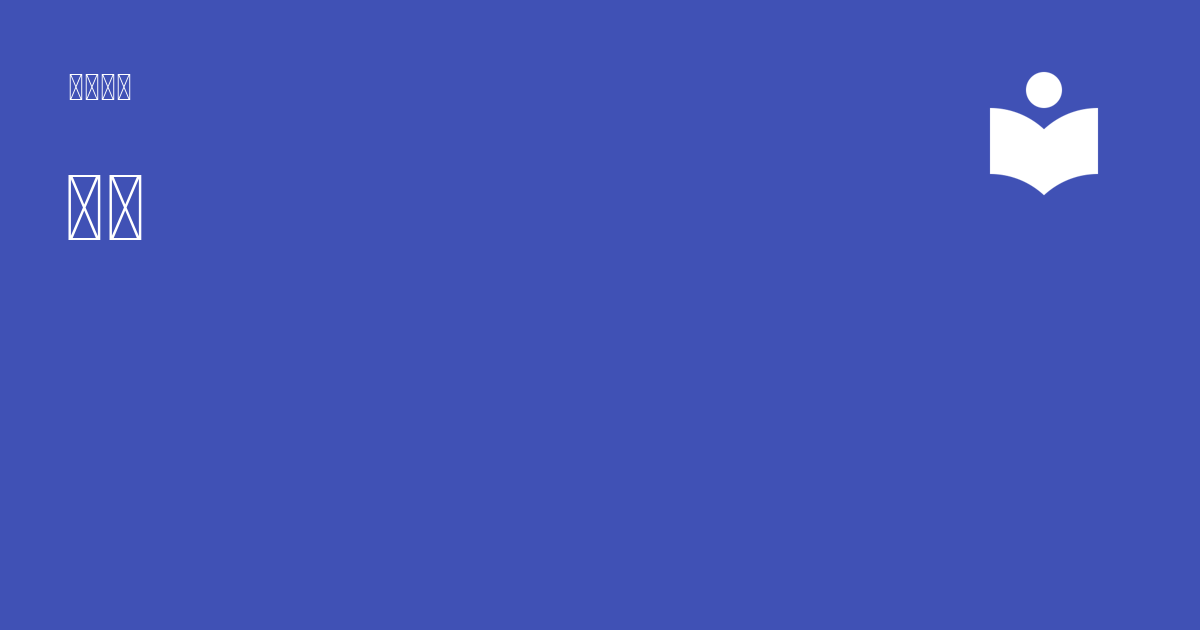
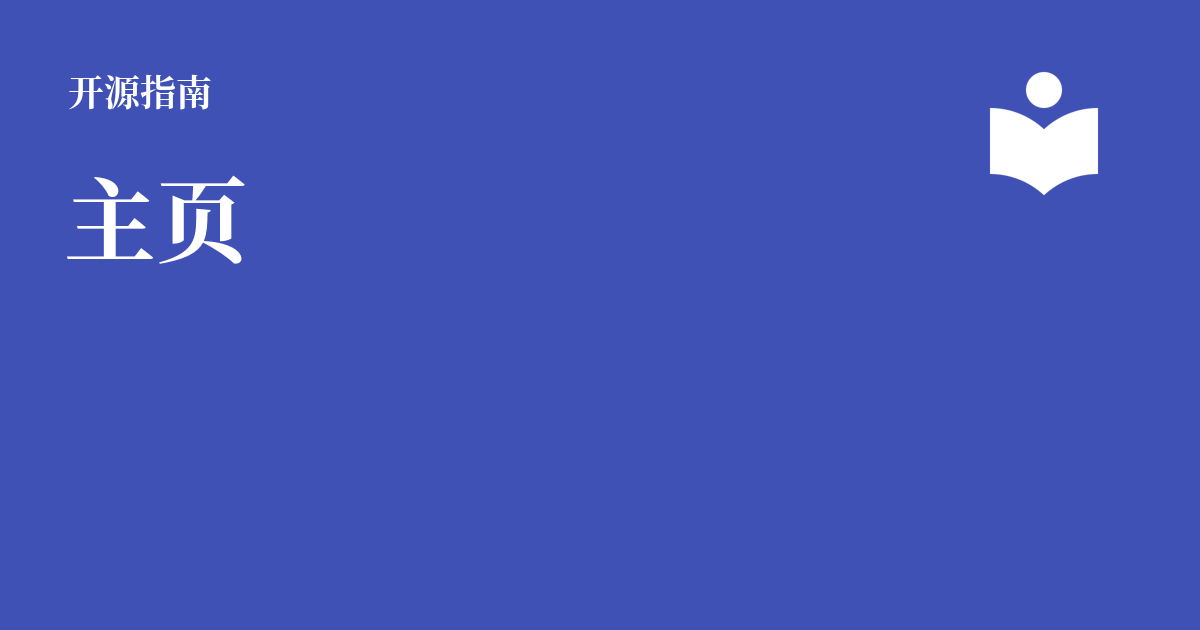
deploy: e4f5789639b287c09941f9b0cb4449ddef17459c

Changed region(s): [[0.0308, 0.2714, 0.2158, 0.4222], [0.0617, 0.1206, 0.185, 0.181]]

diff --git a/404.html b/404.html
@@ -35,8 +35,8 @@
         
         
         <link rel="preconnect" href="https://fonts.gstatic.com" crossorigin>
-        <link rel="stylesheet" href="https://fonts.googleapis.com/css?family=Roboto:300,300i,400,400i,700,700i%7CSource+Code+Variable:400,400i,700,700i&display=fallback">
-        <style>:root{--md-text-font:"Roboto";--md-code-font:"Source Code Variable"}</style>
+        <link rel="stylesheet" href="https://fonts.googleapis.com/css?family=Noto+Serif+SC:300,300i,400,400i,700,700i%7CSource+Code+Variable:400,400i,700,700i&display=fallback">
+        <style>:root{--md-text-font:"Noto Serif SC";--md-code-font:"Source Code Variable"}</style>
       
     
     

diff --git a/apache-maturity-model/index.html b/apache-maturity-model/index.html
@@ -39,8 +39,8 @@
         
         
         <link rel="preconnect" href="https://fonts.gstatic.com" crossorigin>
-        <link rel="stylesheet" href="https://fonts.googleapis.com/css?family=Roboto:300,300i,400,400i,700,700i%7CSource+Code+Variable:400,400i,700,700i&display=fallback">
-        <style>:root{--md-text-font:"Roboto";--md-code-font:"Source Code Variable"}</style>
+        <link rel="stylesheet" href="https://fonts.googleapis.com/css?family=Noto+Serif+SC:300,300i,400,400i,700,700i%7CSource+Code+Variable:400,400i,700,700i&display=fallback">
+        <style>:root{--md-text-font:"Noto Serif SC";--md-code-font:"Source Code Variable"}</style>
       
     
     

diff --git a/clickhouse-community-metrics/index.html b/clickhouse-community-metrics/index.html
@@ -37,8 +37,8 @@
         
         
         <link rel="preconnect" href="https://fonts.gstatic.com" crossorigin>
-        <link rel="stylesheet" href="https://fonts.googleapis.com/css?family=Roboto:300,300i,400,400i,700,700i%7CSource+Code+Variable:400,400i,700,700i&display=fallback">
-        <style>:root{--md-text-font:"Roboto";--md-code-font:"Source Code Variable"}</style>
+        <link rel="stylesheet" href="https://fonts.googleapis.com/css?family=Noto+Serif+SC:300,300i,400,400i,700,700i%7CSource+Code+Variable:400,400i,700,700i&display=fallback">
+        <style>:root{--md-text-font:"Noto Serif SC";--md-code-font:"Source Code Variable"}</style>
       
     
     

diff --git a/how-to-participate/index.html b/how-to-participate/index.html
@@ -37,8 +37,8 @@
         
         
         <link rel="preconnect" href="https://fonts.gstatic.com" crossorigin>
-        <link rel="stylesheet" href="https://fonts.googleapis.com/css?family=Roboto:300,300i,400,400i,700,700i%7CSource+Code+Variable:400,400i,700,700i&display=fallback">
-        <style>:root{--md-text-font:"Roboto";--md-code-font:"Source Code Variable"}</style>
+        <link rel="stylesheet" href="https://fonts.googleapis.com/css?family=Noto+Serif+SC:300,300i,400,400i,700,700i%7CSource+Code+Variable:400,400i,700,700i&display=fallback">
+        <style>:root{--md-text-font:"Noto Serif SC";--md-code-font:"Source Code Variable"}</style>
       
     
     

diff --git a/index.html b/index.html
@@ -37,8 +37,8 @@
         
         
         <link rel="preconnect" href="https://fonts.gstatic.com" crossorigin>
-        <link rel="stylesheet" href="https://fonts.googleapis.com/css?family=Roboto:300,300i,400,400i,700,700i%7CSource+Code+Variable:400,400i,700,700i&display=fallback">
-        <style>:root{--md-text-font:"Roboto";--md-code-font:"Source Code Variable"}</style>
+        <link rel="stylesheet" href="https://fonts.googleapis.com/css?family=Noto+Serif+SC:300,300i,400,400i,700,700i%7CSource+Code+Variable:400,400i,700,700i&display=fallback">
+        <style>:root{--md-text-font:"Noto Serif SC";--md-code-font:"Source Code Variable"}</style>
       
     
     

diff --git a/motivation-of-enterprise-open-source/index.html b/motivation-of-enterprise-open-source/index.html
@@ -37,8 +37,8 @@
         
         
         <link rel="preconnect" href="https://fonts.gstatic.com" crossorigin>
-        <link rel="stylesheet" href="https://fonts.googleapis.com/css?family=Roboto:300,300i,400,400i,700,700i%7CSource+Code+Variable:400,400i,700,700i&display=fallback">
-        <style>:root{--md-text-font:"Roboto";--md-code-font:"Source Code Variable"}</style>
+        <link rel="stylesheet" href="https://fonts.googleapis.com/css?family=Noto+Serif+SC:300,300i,400,400i,700,700i%7CSource+Code+Variable:400,400i,700,700i&display=fallback">
+        <style>:root{--md-text-font:"Noto Serif SC";--md-code-font:"Source Code Variable"}</style>
       
     
     

diff --git a/orbit-gravity-model/index.html b/orbit-gravity-model/index.html
@@ -37,8 +37,8 @@
         
         
         <link rel="preconnect" href="https://fonts.gstatic.com" crossorigin>
-        <link rel="stylesheet" href="https://fonts.googleapis.com/css?family=Roboto:300,300i,400,400i,700,700i%7CSource+Code+Variable:400,400i,700,700i&display=fallback">
-        <style>:root{--md-text-font:"Roboto";--md-code-font:"Source Code Variable"}</style>
+        <link rel="stylesheet" href="https://fonts.googleapis.com/css?family=Noto+Serif+SC:300,300i,400,400i,700,700i%7CSource+Code+Variable:400,400i,700,700i&display=fallback">
+        <style>:root{--md-text-font:"Noto Serif SC";--md-code-font:"Source Code Variable"}</style>
       
     
     

diff --git a/the-apache-community/index.html b/the-apache-community/index.html
@@ -37,8 +37,8 @@
         
         
         <link rel="preconnect" href="https://fonts.gstatic.com" crossorigin>
-        <link rel="stylesheet" href="https://fonts.googleapis.com/css?family=Roboto:300,300i,400,400i,700,700i%7CSource+Code+Variable:400,400i,700,700i&display=fallback">
-        <style>:root{--md-text-font:"Roboto";--md-code-font:"Source Code Variable"}</style>
+        <link rel="stylesheet" href="https://fonts.googleapis.com/css?family=Noto+Serif+SC:300,300i,400,400i,700,700i%7CSource+Code+Variable:400,400i,700,700i&display=fallback">
+        <style>:root{--md-text-font:"Noto Serif SC";--md-code-font:"Source Code Variable"}</style>
       
     
     
